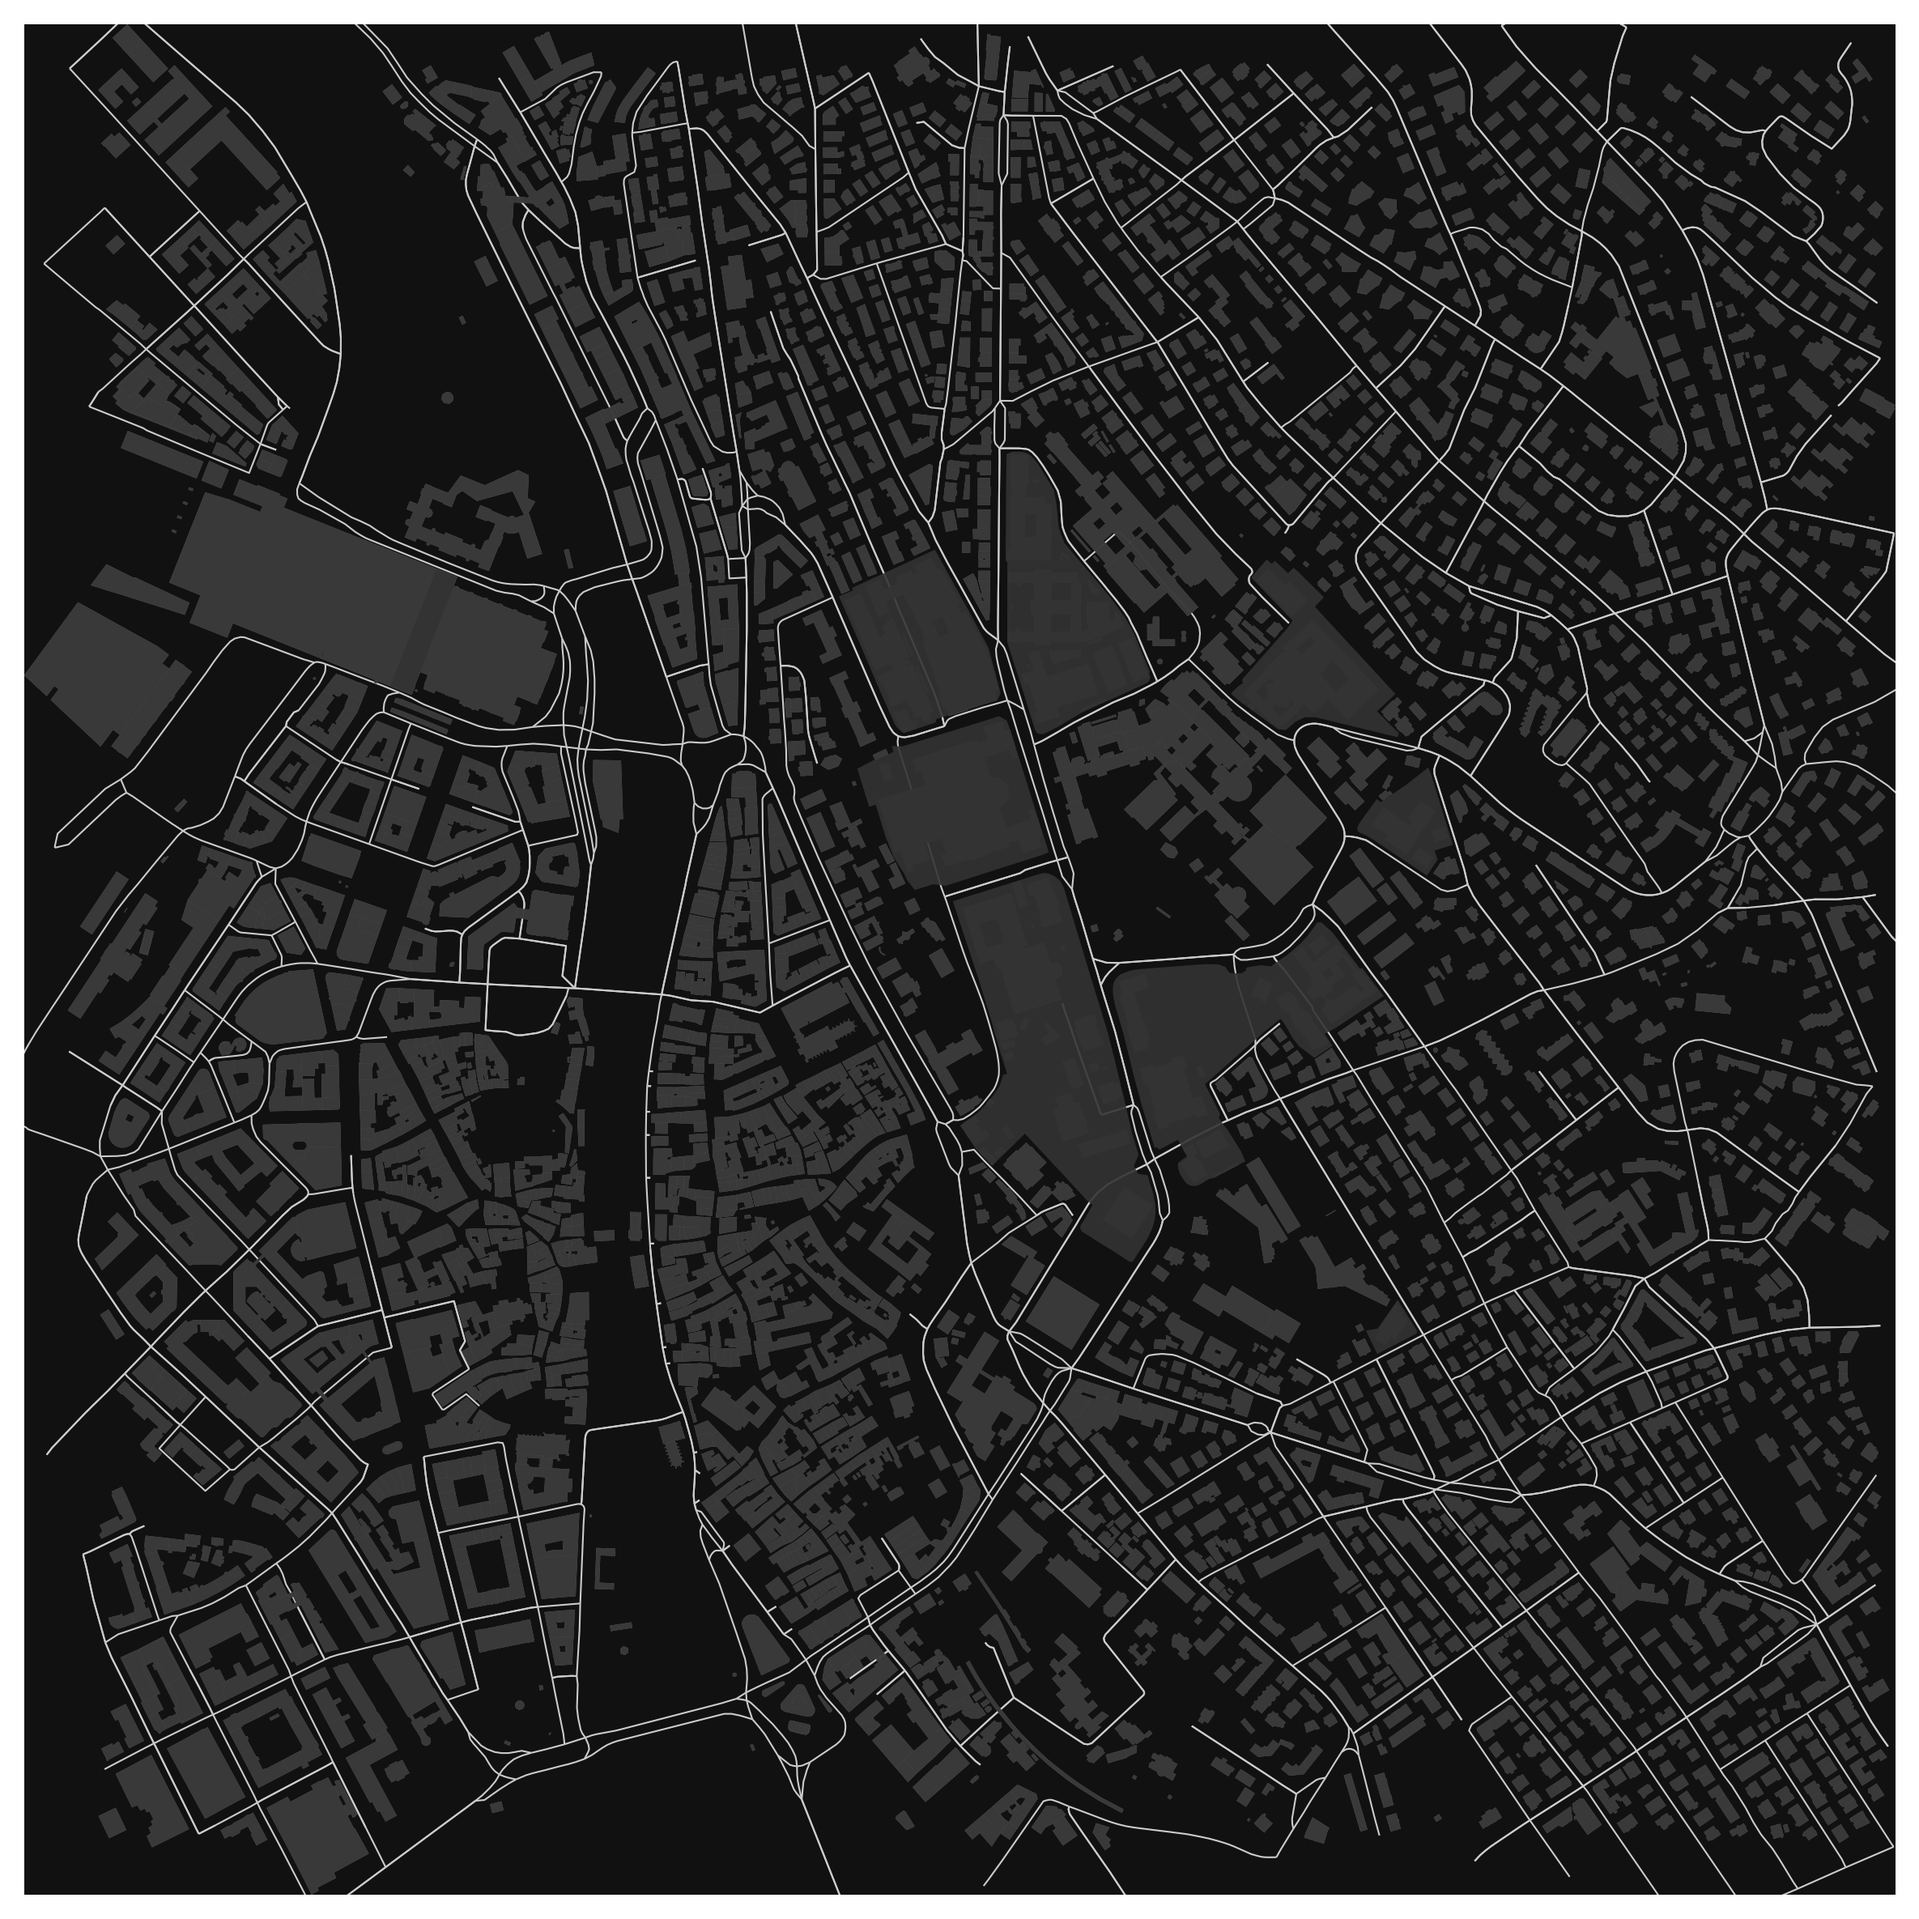
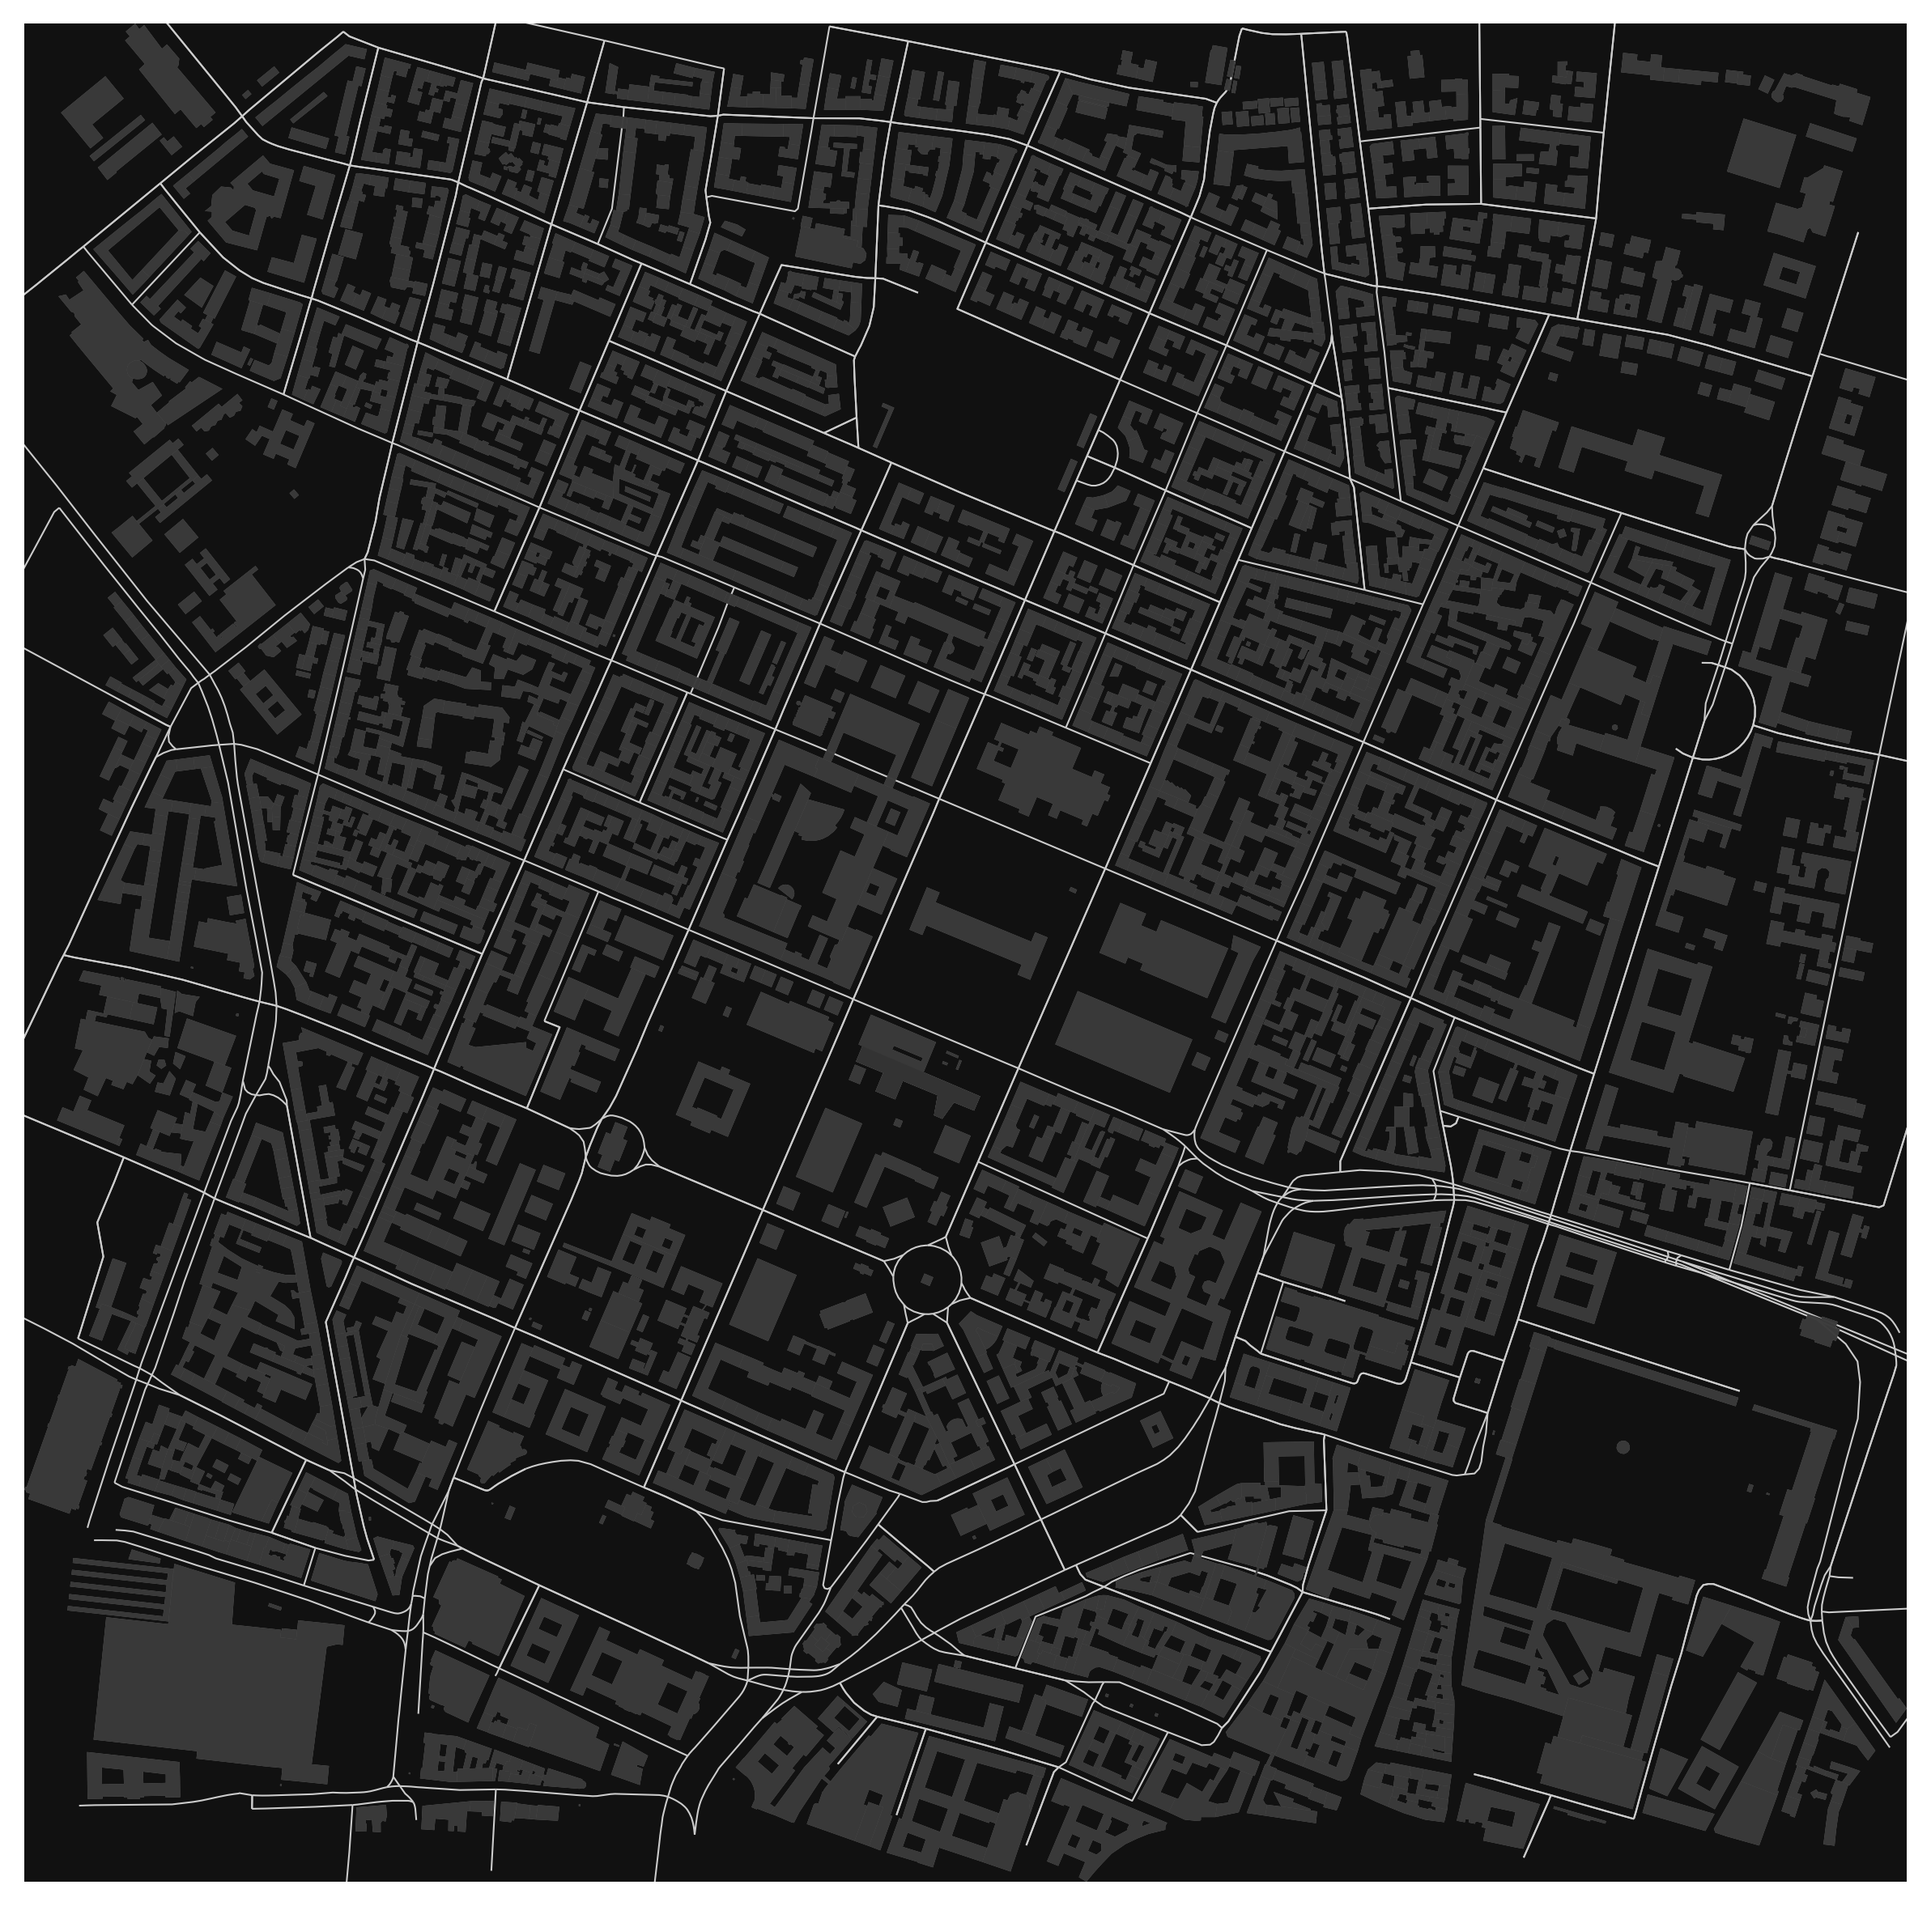
Update map and README for 11.57)

diff --git a/README.md b/README.md
@@ -19,12 +19,12 @@
 
 ## 🏛 Sanctuary of Intellect
 <!-- START_SECTION:map -->
-### University of Zurich(47.3748, 8.5481)
+### Alte Pinakothek(48.1482, 11.57)
 <!--START_SETCTION:temp-->
-![temp](images/demo.gif?1741402246)
+![temp](images/demo.gif)
 <!--END:SETCTION:temp-->
 ![location](map.png)
-Update time: 2025-03-08 02:50:30(UTC) [^1] 
+Update time: 2025-03-08 03:10:47(UTC) [^1] 
 <!-- END_SECTION:map -->
 [^1]: Map updates every 15 mins. Powered by *[Earth.Nullschool](https://earth.nullschool.net/about.html)*, *[OSMnx](https://geoffboeing.com/publications/osmnx-paper/)*.
 
